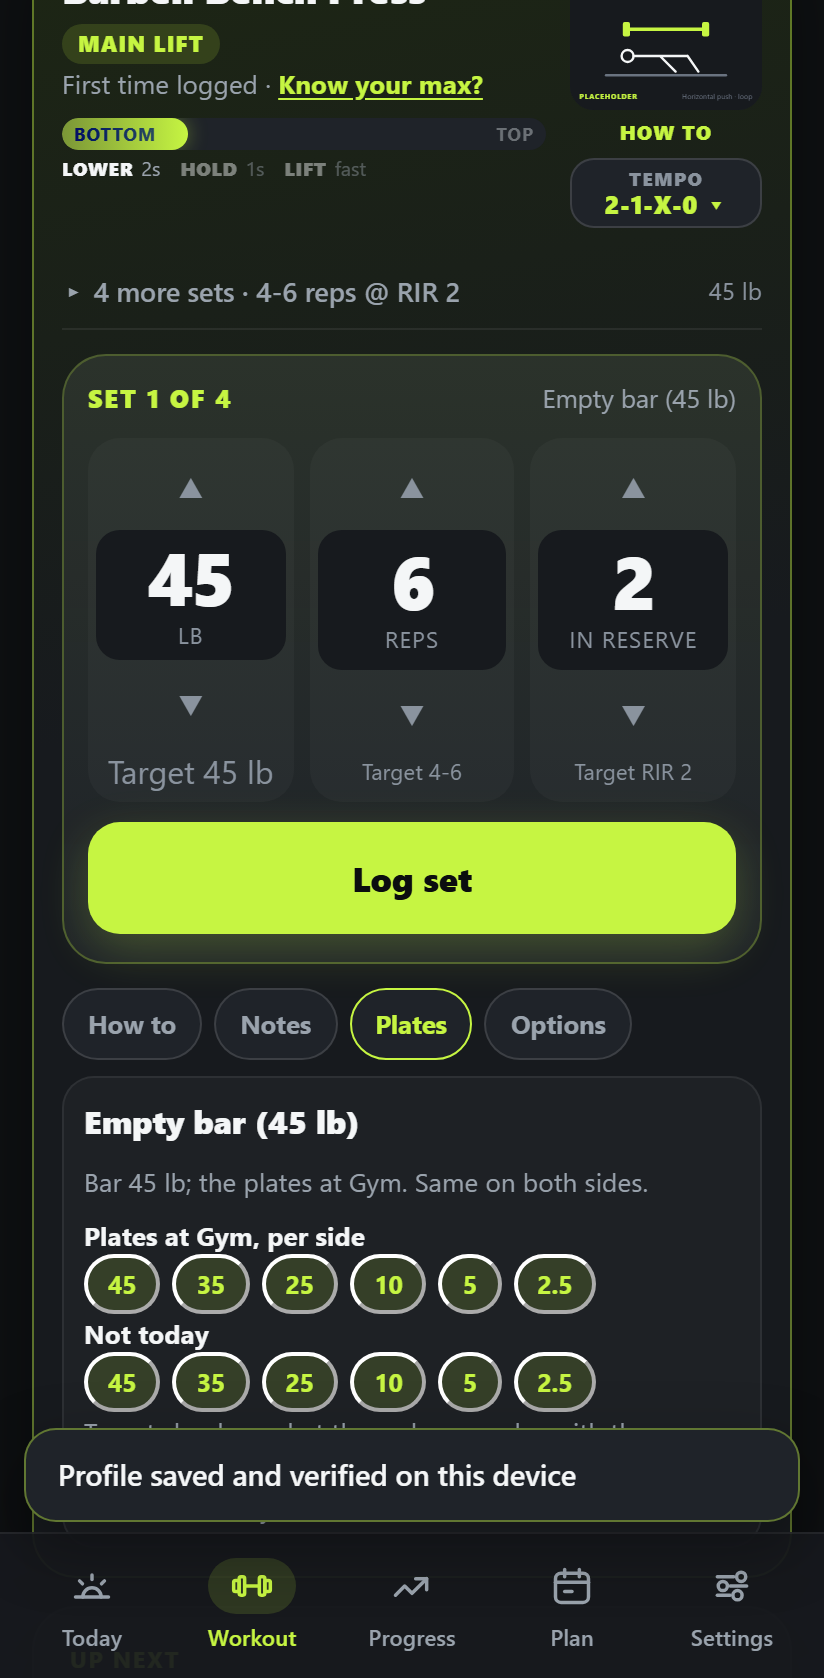
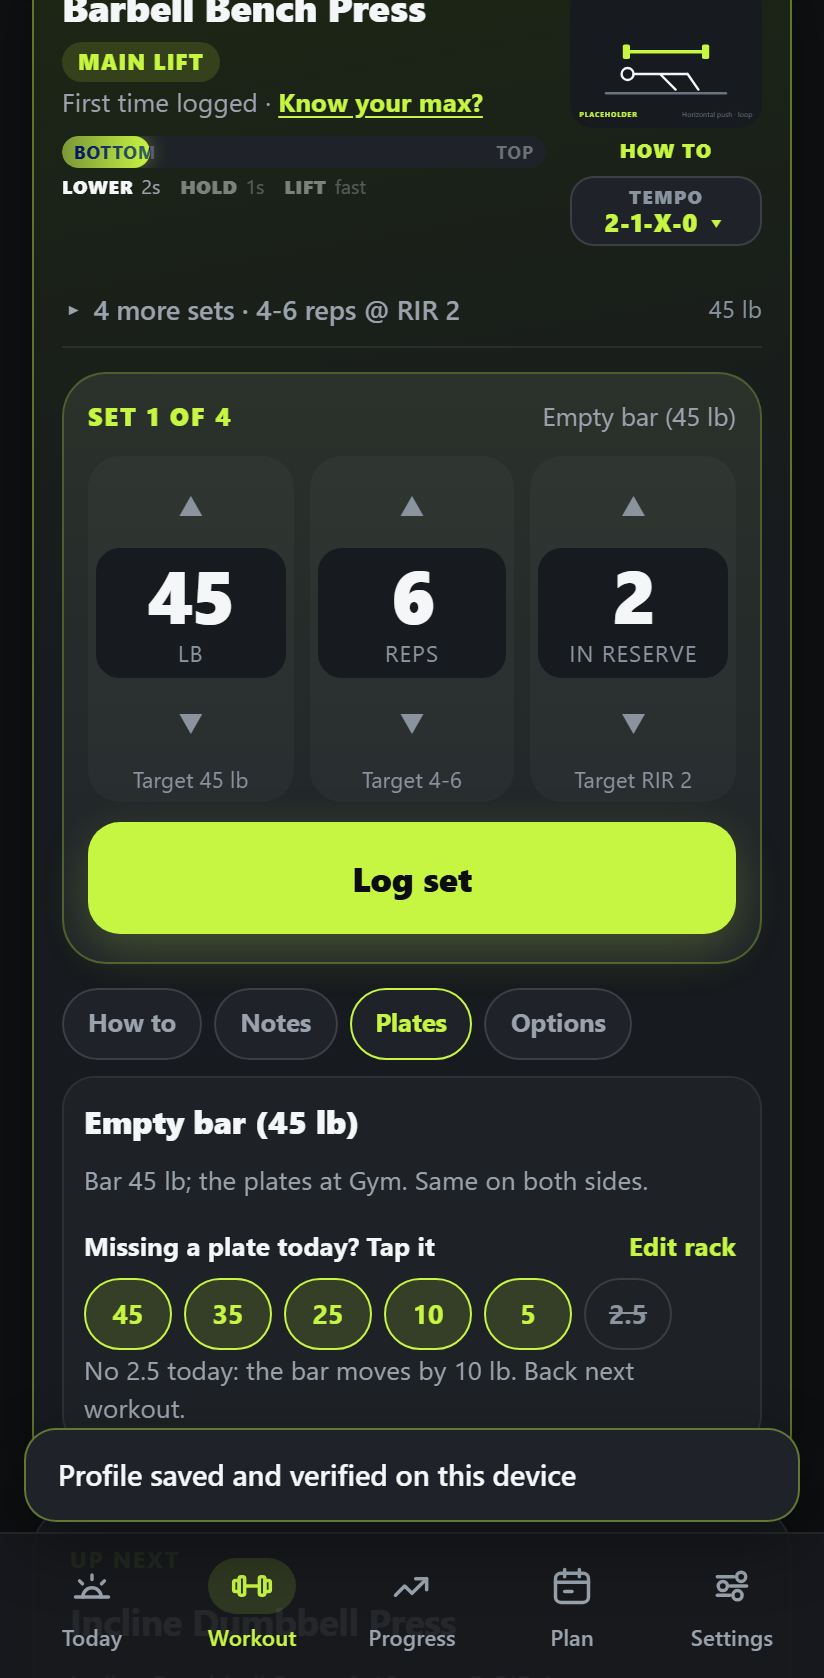
Maintenance 13 GREEN from the owner; Maintenance 14 (round D) begins
Status and live screenshots for build 65753ef: the whole browser suite against
the live URL, and six captures from the phone project. The owner gave the
GREEN together with the last two fixes, the Target line and the Plates panel.

diff --git a/PROJECT_STATUS.md b/PROJECT_STATUS.md
@@ -2,22 +2,22 @@
 
 _Last updated: 2026-09-18_
 
-| Item                   | Value                                                                                                                                                                                                      |
-| ---------------------- | ---------------------------------------------------------------------------------------------------------------------------------------------------------------------------------------------------------- |
-| Repository             | https://github.com/Bill6006/Workout-Conductor-Rebuild-v4                                                                                                                                                   |
-| Live app (permanent)   | https://bill6006.github.io/Workout-Conductor-Rebuild-v4/                                                                                                                                                   |
-| Actions                | https://github.com/Bill6006/Workout-Conductor-Rebuild-v4/actions                                                                                                                                           |
-| Commits                | https://github.com/Bill6006/Workout-Conductor-Rebuild-v4/commits/main                                                                                                                                      |
-| Master issue           | https://github.com/Bill6006/Workout-Conductor-Rebuild-v4/issues/1                                                                                                                                          |
-| Current phase          | Plan complete (Phases 0 to 8 GREEN); Maintenance 1 to 3, 6, 7, and 12 GREEN; 4, 5, 8, 9, 10, and 11 at their review gates. Maintenance 13, session context (round C), at its review gate                   |
-| Phase gate             | Maintenance 13 **YELLOW** - built, deployed, and verified against the live URL; awaiting the owner's Android review. Maintenance 4, 5, 8, 9, 10, and 11 YELLOW (reviews still open)                        |
-| Current branch         | `main`                                                                                                                                                                                                     |
-| Latest completed phase | Phase 6 (GREEN from the owner on 2026-09-03)                                                                                                                                                               |
-| Work in progress       | None. Maintenance 13 is at its review gate (`docs/reports/maintenance-13.md`). Round D (rest timer notification and sounds, the unfinished-workout nudge) follows on the owner's go                        |
-| Latest commit          | Status and live screenshots for build `2159826` (this commit); app build under review is `2159826`                                                                                                         |
-| Latest deployment      | `2159826` deployed by Deploy Pages run 35368123971 (success); browser suite against the live URL: 192 passed + 14 skipped by design                                                                        |
-| Test totals            | Unit: 462 passed (101 files). Browser/mobile: 187 passed + 14 skipped by design, plus the tempo-detail spec repaired and rerun (6 of 6) locally and 192 passed + 14 skipped by design against the live URL |
-| Build marker           | Shown under the header on every screen: `Build <sha> · <UTC time> · Phase 7`                                                                                                                               |
+| Item                   | Value                                                                                                                                                                                                                                        |
+| ---------------------- | -------------------------------------------------------------------------------------------------------------------------------------------------------------------------------------------------------------------------------------------- |
+| Repository             | https://github.com/Bill6006/Workout-Conductor-Rebuild-v4                                                                                                                                                                                     |
+| Live app (permanent)   | https://bill6006.github.io/Workout-Conductor-Rebuild-v4/                                                                                                                                                                                     |
+| Actions                | https://github.com/Bill6006/Workout-Conductor-Rebuild-v4/actions                                                                                                                                                                             |
+| Commits                | https://github.com/Bill6006/Workout-Conductor-Rebuild-v4/commits/main                                                                                                                                                                        |
+| Master issue           | https://github.com/Bill6006/Workout-Conductor-Rebuild-v4/issues/1                                                                                                                                                                            |
+| Current phase          | Plan complete (Phases 0 to 8 GREEN); Maintenance 1 to 3, 6, 7, 12, and 13 GREEN; 4, 5, 8, 9, 10, and 11 at their review gates. Maintenance 14, round D (the rest timer's notification and sounds, the unfinished-workout nudge), in progress |
+| Phase gate             | Maintenance 13 **GREEN** from the owner on 2026-09-18, given with the last two fixes. Maintenance 14 in progress. Maintenance 4, 5, 8, 9, 10, and 11 YELLOW (reviews still open)                                                             |
+| Current branch         | `main`                                                                                                                                                                                                                                       |
+| Latest completed phase | Phase 6 (GREEN from the owner on 2026-09-03)                                                                                                                                                                                                 |
+| Work in progress       | Maintenance 14, round D: a notification and sounds when the rest timer ends, and a nudge when a workout has been left unfinished too long                                                                                                    |
+| Latest commit          | Status and live screenshots for build `65753ef` (this commit); app build is `65753ef`                                                                                                                                                        |
+| Latest deployment      | `65753ef` deployed by Deploy Pages run 35396249787 (success); browser suite against the live URL: 195 passed + 14 skipped by design                                                                                                          |
+| Test totals            | Unit: 471 passed (105 files). Browser/mobile: 195 passed + 14 skipped by design locally and 195 passed + 14 skipped by design against the live URL                                                                                           |
+| Build marker           | Shown under the header on every screen: `Build <sha> · <UTC time> · Phase 7`                                                                                                                                                                 |
 
 ## Phase checklist
 
@@ -138,10 +138,12 @@ _Last updated: 2026-09-18_
 - Zoom and width sweep: 360, 375, 412, 430 px at 100, 115, 130, 150 percent, as desktop page zoom and as phone text scaling; bottom navigation and set rows shrink correctly.
 - Demonstration coverage test, database version 4 with a backups store, Phase 8 report (`docs/reports/phase-8.md`), and the cutover report against the acceptance rules (`docs/cutover-report.md`).
 
-## Maintenance 13: session context, round C (YELLOW - awaiting review)
+## Maintenance 13: session context, round C (GREEN)
 
+- GREEN from the owner on 2026-09-18 (issue #14), given together with the last two fixes below.
 - Found: the backup reminder did not know about the cloud copy; targets for later exercises were computed as though the lifter walked in fresh, while a target read from a logged set already carries that day's fatigue, so the obvious discount would drift targets down forever; ramps were decided per exercise, with a first-time bar lift getting two ramps at the working weight itself; a lift never done started from bodyweight or a blank.
 - Session context (`src/engine/recovery/sessionContext.ts`): the overlapping work before each exercise today, done or planned, against the same measure on the day its target came from; the load moves by the difference (three more sets a step down, six two, three fewer a step up on a clean reference day), so the usual order never drifts. A long break (20 min) makes what follows a fresher start: earlier work counts half, ramps come back, and the exercise in front gets one light ramp. Ramps decided from the whole session and never at the working weight (none at the empty bar); a target set by hand recomputes its pending ramps. The cross-exercise estimate (`crossEstimate.ts`) sets the first target of a lift never done from lifts with history or an entered max, before the bodyweight table; an entered max now informs every lift never logged. The backup reminder goes quiet while the cloud copy is on and current.
+- Follow-up from the owner's first look (builds `de7a194`, `5f59823`, `65753ef`): a coach offer the lifter took kept coming back because its evidence is weeks of history a tap does not change, and repeated taps stacked fifteen sets on the main lift. The session now remembers every offer taken (`session.coachAccepted`) and the coach does not make it twice; offers that add a set never stack on an exercise already changed today; one exercise stops at eight working sets whatever asks; the extra set goes on direct work for the muscle and never on the strength lifts. The opened set list folds a run of identical sets into one row: seven rows became four. A removed cloud token stays removed when a sync is still in flight (found by the live run). The Target line keeps the hint's size and is never cut off. The Plates panel is one row with a plain meaning: tap a plate you cannot find today, with the place's own rack behind Edit rack and All plates to restore it.
 - Report: `docs/reports/maintenance-13.md`.
 
 ## Maintenance 12: what the place can load, round B (GREEN)
@@ -242,7 +244,7 @@ _Last updated: 2026-09-18_
 
 ## Mobile screenshots
 
-Maintenance 13, captured by Playwright from the deployed build `2159826` at https://bill6006.github.io/Workout-Conductor-Rebuild-v4/ (see [docs/screenshots/maintenance-13](docs/screenshots/maintenance-13)): [Ramps under the target after a max](docs/screenshots/maintenance-13/android-412-workout-ramps-under-target.png) · [A first target from the bench](docs/screenshots/maintenance-13/android-412-workout-cross-estimate.png).
+Maintenance 13, captured by Playwright from the deployed builds `2159826` and `65753ef` at https://bill6006.github.io/Workout-Conductor-Rebuild-v4/ (see [docs/screenshots/maintenance-13](docs/screenshots/maintenance-13)): [Ramps under the target after a max](docs/screenshots/maintenance-13/android-412-workout-ramps-under-target.png) · [A first target from the bench](docs/screenshots/maintenance-13/android-412-workout-cross-estimate.png) · [The set list, opened and still short](docs/screenshots/maintenance-13/android-412-workout-set-list-compact.png) · [Plates: a plate missing today](docs/screenshots/maintenance-13/android-412-workout-plates-not-today.png) · [Plates: Edit rack](docs/screenshots/maintenance-13/android-412-workout-plates-edit-rack.png) · [The Target line at its own size](docs/screenshots/maintenance-13/android-412-workout-target-glow.png).
 
 Maintenance 12, captured by Playwright from the deployed build `cf1ab6e` at https://bill6006.github.io/Workout-Conductor-Rebuild-v4/ (see [docs/screenshots/maintenance-12](docs/screenshots/maintenance-12)): [Plates with a 2.5 missing today](docs/screenshots/maintenance-12/android-412-workout-plates-not-today.png) · [The target line glowing under its target](docs/screenshots/maintenance-12/android-412-workout-target-glow.png) · [Energy after, in words](docs/screenshots/maintenance-12/android-412-finish-energy-words.png) · [The Location control](docs/screenshots/maintenance-12/android-412-today-location-control.png) · [The check-in, in words](docs/screenshots/maintenance-12/android-412-today-checkin-words.png) · [How a custom exercise loads](docs/screenshots/maintenance-12/android-412-library-custom-load.png).
 
